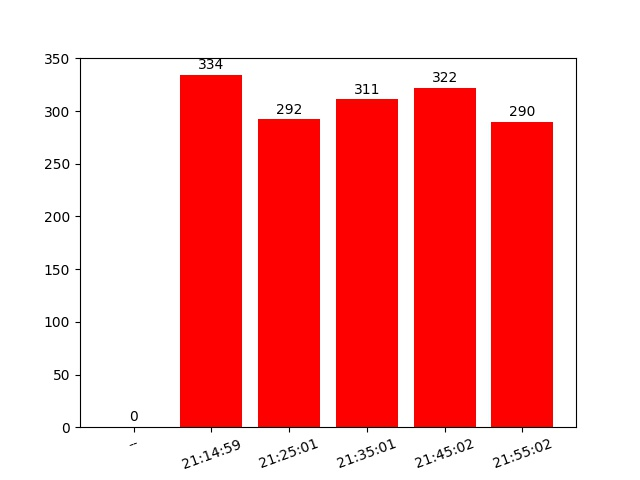
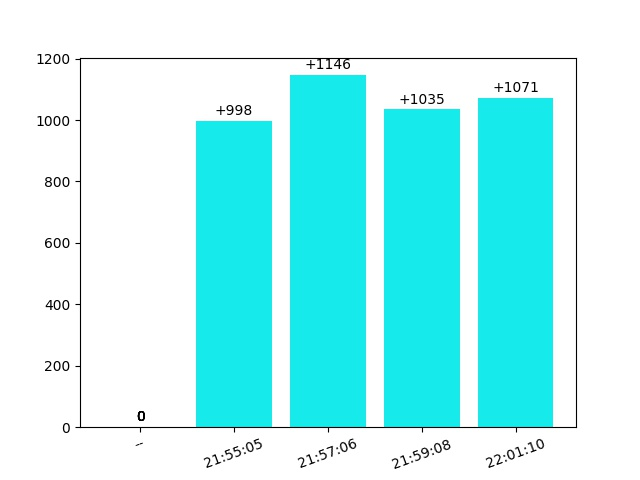
banyak fitur, sebelum diubah menjadi oop

diff --git a/main.py b/main.py
@@ -1,12 +1,18 @@
 import requests, threading,time
 import datetime
+import argparse
 import matplotlib.pyplot as plt
-hed = {'User-Agent':'Mozilla/5.0 (X11; Linux x86_64; rv:85.0) Gecko/20100101 Firefox/85.0'}
+hed = {
+'Host':'www.instagram.com',
+'Accept':'text/html,application/xhtml+xml,application/xml;q=0.9,image/webp,*/*;q=0.8',
+'User-Agent':'Mozilla/5.0 (X11; Linux x86_64; rv:85.0) Gecko/20100101 Firefox/85.0'}
 trakhir = 0
 menit_awal = 0
-krg = 0
-pengurangan = [0,0,0,0,0,0] #ambil 6 data atau 60 menit
+showBar = 6 #default 6
+updateTime = 60
+hasilAwal = [0,0,0,0,0,0] #ambil 6 data atau 60 menit
 ttt = ['--','--','--','--','--','--']
+
 
 
 def jam():
@@ -17,21 +23,27 @@ def chart():
 	def autolabel(rects):
 		for rect in rects:
 			height = rect.get_height()
-			plt.annotate('{}'.format(height),
+
+			if height > 0 :
+				h = '+'+str(height)
+			else:
+				h = height
+
+			plt.annotate('{}'.format(h),
 				xy=(rect.get_x() + rect.get_width() / 2, height),
 				xytext=(0, 2),  # 3 points vertical offset
 				textcoords="offset points",
 				ha='center', va='bottom')	
-	p = plt.bar(ttt[-6:], pengurangan[-6:], color='r')
+	p = plt.bar(ttt[-showBar:], hasilAwal[-showBar:], color='#17eaea')
 	autolabel(p)
 	plt.xticks(rotation = 20)
 	plt.savefig('p.jpg')
 	with open('per10-Minute.txt', 'a') as tls:
-		tls.write(f'{pengurangan[-1]} ---- {jam()}\n')
+		tls.write(f'{hasilAwal[-1]} ---- {jam()}\n')
 
 	# plt.cla()
 	# plt.clf()
-	#plt.close('all')
+	plt.close('all')
 
 
 def hitung(jumlah):
@@ -54,13 +66,15 @@ def hitung(jumlah):
 	return jumlah
 
 def st(nama):
-	global trakhir, krg
+	global trakhir
 	start_sec = 0
+
 	while True:
 		if start_sec == 0:
 			start_sec = time.time()
+		
 		try:
-			js = requests.get('https://www.instagram.com/{}/channel/?__a=1'.format(nama), headers=hed).json()
+			js = requests.post(f'http://www.instagram.com/{nama}/channel/?__a=1', headers=hed).json()
 			jml = js['graphql']['user']['edge_followed_by']['count']
 			if trakhir == 0:
 				menit_awal = jml
@@ -71,20 +85,18 @@ def st(nama):
 			else:
 				y = ('+'+str(jml-trakhir))
 
-			print('Follower : ',hitung(str(jml)), f' ({y}')
+			print(f'({jam()}) ',hitung(str(jml)), f' ({y})')
 			trakhir = jml
 			
 		except:
 			pass
 		
-		if time.time()-start_sec >= 600: #600 = 10menit
+		if time.time()-start_sec >= updateTime: #600 = 10menit
 			#print(datetime.timedelta(seconds=start_sec), datetime.timedelta(seconds=time.time()))
 			#print(menit_awal, jml)
-			krg = menit_awal-jml
-			if krg < 0 :
-				krg = 0
+			jum = jml-menit_awal
 			ttt.append(jam())
-			pengurangan.append(krg)
+			hasilAwal.append(jum)
 			start_sec = time.time()
 			t = threading.Thread(target=chart)
 			t.start()
@@ -93,5 +105,18 @@ def st(nama):
 		time.sleep(0.8)
 
 if __name__ == '__main__':
-	name = input('Username : ')
+	parser = argparse.ArgumentParser()
+	parser.add_argument("-u", "--update", help="how many minutes to update char bar. default: 1 minute",type=int)
+	parser.add_argument("-s", "--showbar", help="how many bar in chart. default: 6 bar", type=int)
+	args = parser.parse_args()
+	if args.update:
+		if args.update > 0:
+			updateTime = args.update*60
+	if args.showbar:
+		if args.showbar > 0:
+			hasilAwal = [0]*args.showbar
+			ttt = ['--']*args.showbar
+			showBar = args.showbar
+
+	name = str(input('Username : @'))
 	st(name)
